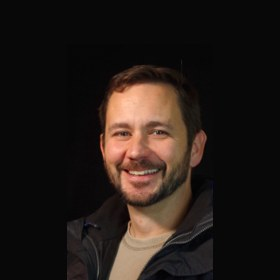
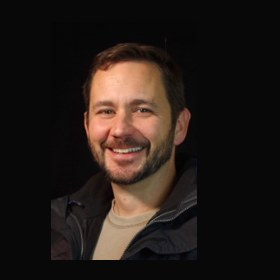
Recenter Jason headshot; drop bottom team photo

Changed region(s): [[0.1714, 0.1429, 0.7714, 1.0], [0.2857, 0.6571, 0.3143, 0.6857]]

diff --git a/team/index.md b/team/index.md
@@ -47,13 +47,3 @@ nav:
 {% include member-row.html member=m %}
 {%- endfor -%}
 </div>
-
-{% include section.html %}
-
-{% capture content %}
-
-{% include figure.html image="images/group.jpg" %}
-
-{% endcapture %}
-
-{% include grid.html style="square" content=content %}
